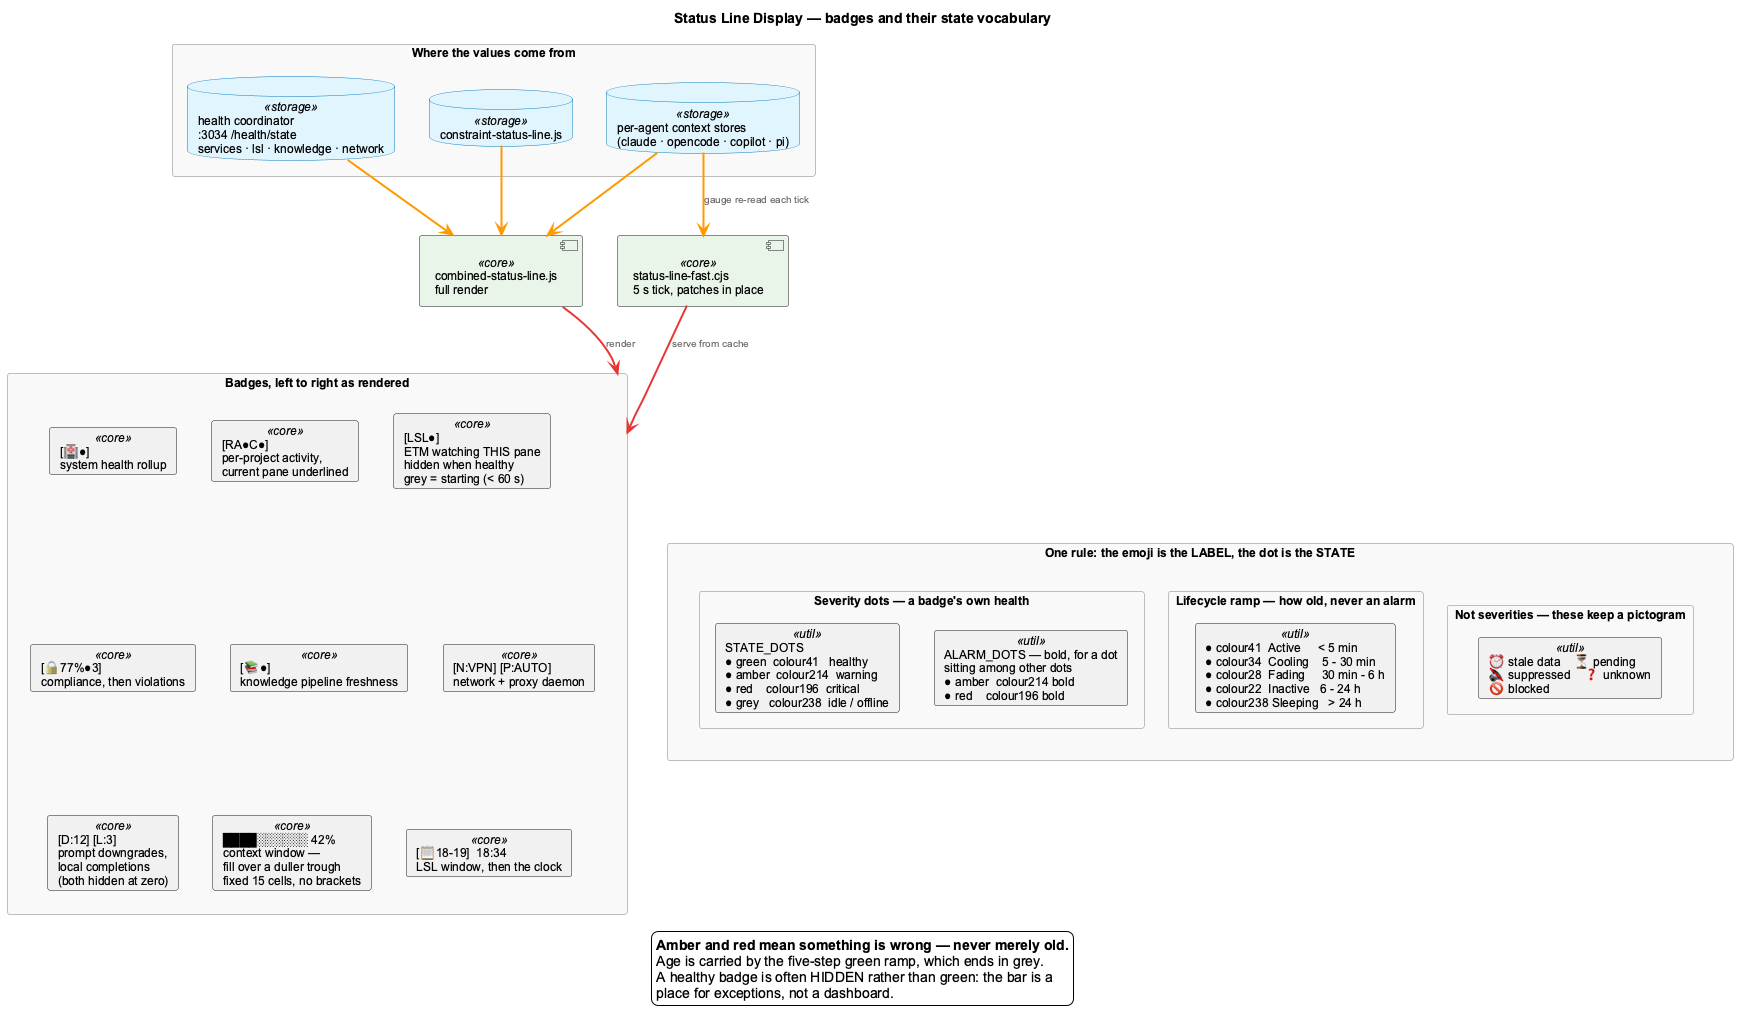
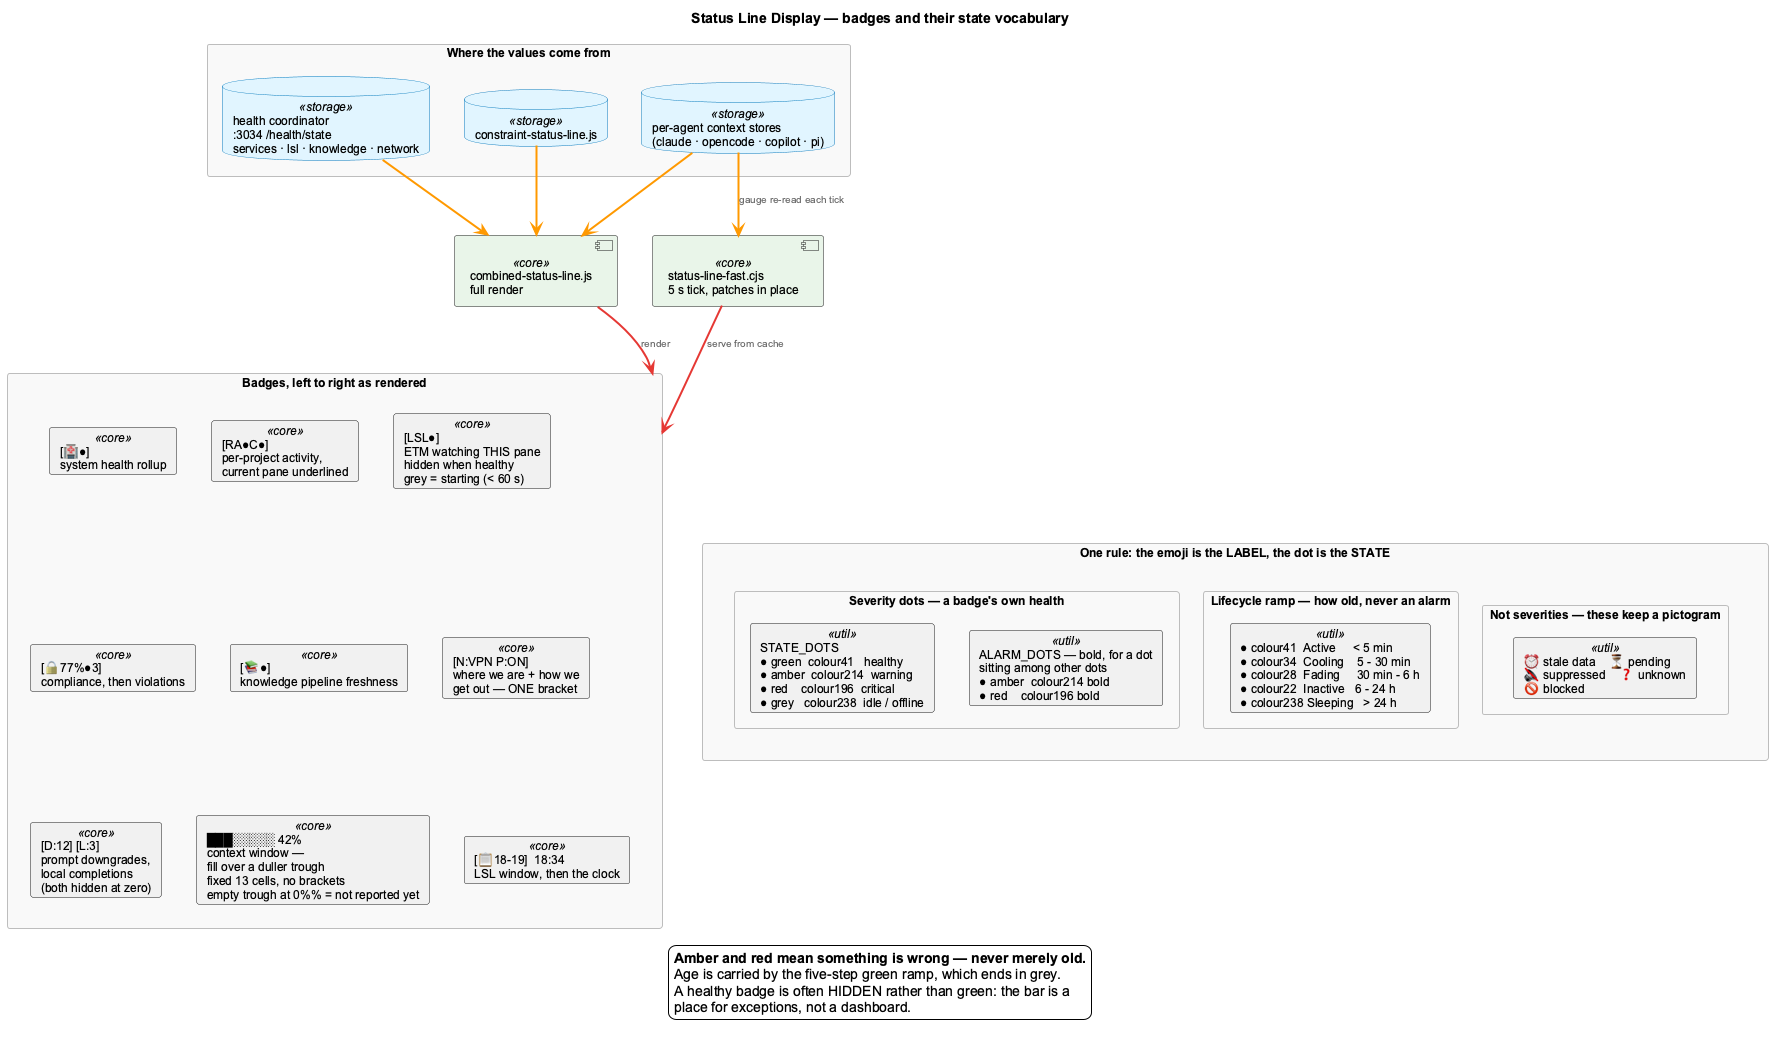
docs(statusline): the examples are colour, because the colour IS the content
No — they were not meant to be black and white. I wrote the new bars as fenced
code blocks and backticked table cells, which are monochrome by definition. This
site already had the answer and I did not use it: `.statusline` in
docs-content/stylesheets/extra.css exists precisely for this, and its own comment
says why — "every badge on the bar encodes its state as a COLOUR, and the context
gauge is specifically a bright fill over a duller background of the same hue.
Rendered in one flat grey, the example showed the layout and hid the entire
point."

So the bars are now rendered spans: green dots, the amber violation dot, the
gauge as fill-over-trough, the underlined project letter. The four per-profile
examples in the features guide move from a monochrome table to four labelled
terminal surfaces, which also gives each one full width instead of wrapping
inside a table cell.

They are GENERATED, not typed: `render-statusline-png.mjs --spans` converts a
real cached render into the markup. Hand-written bars are exactly what drifted
here before — the deep tier was still showing ten-cell gauges and a split
`[N:] [P:]` pair months after both changed — and typing out span markup by hand
is strictly more error-prone than typing out plain text. An unmapped colour
degrades to an unstyled span rather than being guessed at, so a new badge shows
up in plain text instead of silently wearing another badge's meaning.

Three things found while doing it:
[…]

diff --git a/docs-content/stylesheets/extra.css b/docs-content/stylesheets/extra.css
@@ -260,6 +260,13 @@
  * these mirror what the slate scheme already does for the same reason.
  */
 .statusline .sl-green  { color: #00d75f; }
+/* The session-activity ramp: an active session fades through four greens rather
+ * than flipping between two states, so an idle pane is distinguishable from a
+ * busy one without a second glyph. Values are the tmux ones (colour41 → 34 → 28
+ * → 22); on #1c1c1c the darkest are legible as-is, unlike on a light page. */
+.statusline .sl-green-mid   { color: #00af00; }
+.statusline .sl-green-dark  { color: #008700; }
+.statusline .sl-green-vdark { color: #006f00; }
 .statusline .sl-amber  { color: #ffaf00; font-weight: 700; }
 .statusline .sl-red    { color: #ff0000; font-weight: 700; }
 .statusline .sl-grey   { color: #8a8a8a; }

diff --git a/docs/health-system/status-line.md b/docs/health-system/status-line.md
@@ -33,7 +33,7 @@ The Status Line provides a **compact, real-time view** of all system activity ac
 
 **Native Mode:**
 ```
-[🏥●] [Gq$0FEB A$0 O$0 X$25] [C● UT●] [🔒67% 🔍EX] [📚●] ████░░░░░░  42% 📋17-18
+[🏥●] [Gq$0FEB A$0 O$0 X$25] [C● UT●] [🔒67% 🔍EX] [📚●] ███░░░░░  42% 📋17-18
 ```
 
 **Docker Mode:**
@@ -53,7 +53,7 @@ The Status Line provides a **compact, real-time view** of all system activity ac
 - `🔒67%` - **Constraint Compliance**: Code quality compliance percentage (with optional `●N` (amber) violations sub-segment when non-zero)
 - `[📚●]` green - **Knowledge Pipeline**: Observation/digest/insight pipeline freshness — driven by observation write age (healthy <15 min · stale 15 min–6 h · stalled >6 h · disabled empty · unreachable obs_api down). Source: `state.knowledge_pipeline` at `:3034/health/state`.
 - `[LSL●]` - **LSL Health**: Whether an ETM is watching THIS pane's project. Hidden when healthy; grey = starting (session < 60 s old), bold amber = degraded or stale, bold red = stopped or absent.
-- `████░░░░░░  42%` - **Context Window Gauge**: How full this pane's agent conversation is — all four agents, not just Claude.
+- `███░░░░░  42%` - **Context Window Gauge**: How full this pane's agent conversation is — all four agents, not just Claude. An empty trough at `0%` means the agent has not reported yet (a new session), not that the gauge is broken.
 - `📋17-18` - **LSL Time Window**: Session time range (HHMM-HHMM)
 
 ### Internal Health Status (Raw Output)
@@ -230,7 +230,7 @@ How full this pane's agent conversation is, for **all four agents** — previous
 existed only inside Claude's own statusline.
 
 ```
-████░░░░░░  42%
+███░░░░░  42%
 ```
 
 Rendered by `lib/statusline/context-gauge.cjs`, which is CommonJS so both
@@ -244,7 +244,7 @@ load the *same* file rather than keeping two copies in step.
 | 65 – 79% | `colour208` | `colour94` |
 | ≥ 80% | `colour196` bold | `colour52` |
 
-**Fixed 15 cells in every band**, measured against tmux rather than assumed. The fast path
+**Fixed 13 cells in every band** (8 bar + 1 space + 4 for the right-padded percentage), measured against tmux rather than assumed. The fast path
 substitutes a freshly rendered gauge into a line the full renderer has already truncated
 and left-padded, so a width that varied by severity would push the payload past the pane
 edge — the trailing-residue artifact (`15:322`). This is why the ≥ 80% band carries no 💀

diff --git a/docs-content/guides/features.md b/docs-content/guides/features.md
@@ -121,14 +121,27 @@ you switch parts off.
     The status line is the fastest way to see the effect — a disabled feature contributes no
     badge at all, rather than a greyed-out one:
 
-    | profile | bar |
-    |---------|-----|
-    | `full` | `[🏥●] [AX●C●] [🔒74%●4] [📚●] [N:OPEN P:AUTO] [🧠●] ███░░░░░  41% [📋●7-8(1min)] 07:59` |
-    | `logging-only` | `[🏥●] [AX●C●] [N:OPEN P:AUTO] ███░░░░░  41% [📋8-9] 08:00` |
-    | `proxy-only` | `[🧠●] ███░░░░░  41% 08:00` |
-    | `minimal` | `███░░░░░  41% 08:00` |
+    `full` — everything on:
+
+    <span class="statusline">[🏥<span class="sl-green">●</span>] [AX<span class="sl-green">●</span><span class="sl-under">C</span><span class="sl-green">●</span>] [🔒72%<span class="sl-amber">●</span>7] [📚<span class="sl-green">●</span>] [N:OPEN P:AUTO] [🧠<span class="sl-green">●</span>] <span class="gauge gauge-ok">███░░░░░  46%</span> [📋8-9] 08:19</span>
+
+    `logging-only` — health, sessions and the log tranche survive; the knowledge, constraint
+    and proxy badges go with their features:
+
+    <span class="statusline">[🏥<span class="sl-green">●</span>] [AX<span class="sl-green">●</span><span class="sl-under">C</span><span class="sl-green">●</span>] [N:OPEN P:AUTO] <span class="gauge gauge-ok">███░░░░░  47%</span> [📋8-9] 08:19</span>
+
+    `proxy-only` — one badge, the gauge, the clock:
+
+    <span class="statusline">[🧠<span class="sl-green">●</span>] <span class="gauge gauge-ok">███░░░░░  47%</span> 08:19</span>
+
+    `minimal`:
+
+    <span class="statusline"><span class="gauge gauge-ok">███░░░░░  47%</span> 08:19</span>
 
     The context gauge and the clock are core, not a feature, so they survive every profile.
+    The examples above are generated from the real renders by
+    `scripts/render-statusline-png.mjs --spans`, not typed — hand-written bars on this site had
+    already drifted to ten-cell gauges and a split `[N:] [P:]` pair months after both changed.
 
 === "📚 Deep Dive (full)"
 

diff --git a/docs-content/guides/status-line.md b/docs-content/guides/status-line.md
@@ -10,21 +10,17 @@ something broken?" questions into a glance.
     **The emoji is the label; the dot is the state.** The leading emoji says what the badge is
     about and never changes; the tinted `●` after it says how that thing is doing.
 
-    ![The status line as tmux draws it](../images/status-line-compact.png)
-
-    ```
-    [🏥●] [AX●C●] [🔒72%●6] [📚●] [N:OPEN P:AUTO] [🧠●] ███░░░░░  43% [📋8-9] 08:03
-    ```
+    <span class="statusline">[🏥<span class="sl-green">●</span>] [AX<span class="sl-green">●</span><span class="sl-under">C</span><span class="sl-green">●</span>] [🔒72%<span class="sl-amber">●</span>7] [📚<span class="sl-green">●</span>] [N:OPEN P:AUTO] [🧠<span class="sl-green">●</span>] <span class="gauge gauge-ok">███░░░░░  47%</span> [📋8-9] 08:20</span>
 
     | Segment | Means |
     |---------|-------|
     | `[🏥●]` | Overall system health |
     | `[AX●C●]` | Active sessions per project — your pane's project is underlined |
-    | `[🔒72%●6]` | Constraint compliance; `●N` in amber appears when there are violations |
+    | `[🔒72%●7]` | Constraint compliance; `●N` in amber appears when there are violations |
     | `[📚●]` | Knowledge pipeline freshness |
     | `[N:OPEN P:AUTO]` | Where this machine is, and how it gets out — one bracket, because you read them together |
     | `[🧠●]` | Proxy semantic readiness |
-    | `███░░░░░ 43%` | How full **this pane's** conversation context is |
+    | `███░░░░░ 47%` | How full **this pane's** conversation context is |
     | `[📋8-9]` | Session logging time window |
 
     Each badge belongs to a feature, and a feature you have switched off contributes no badge
